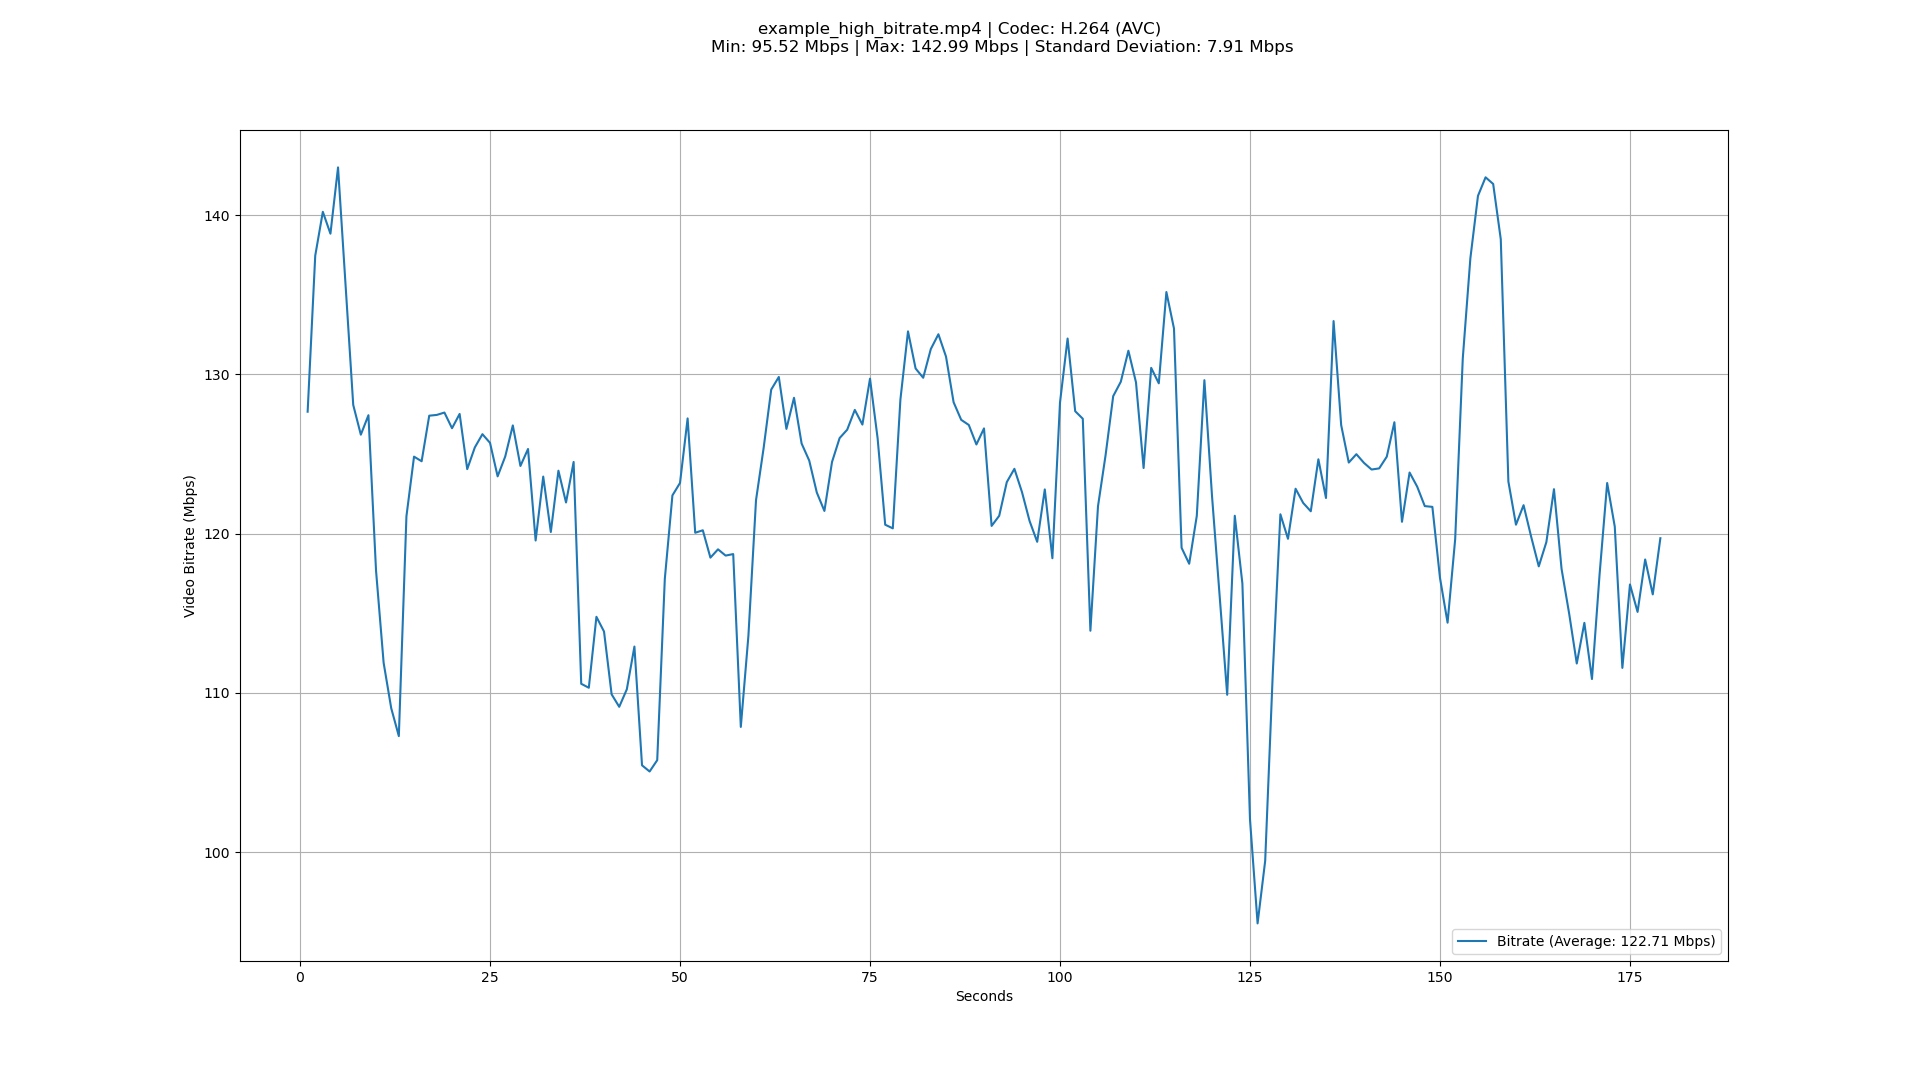
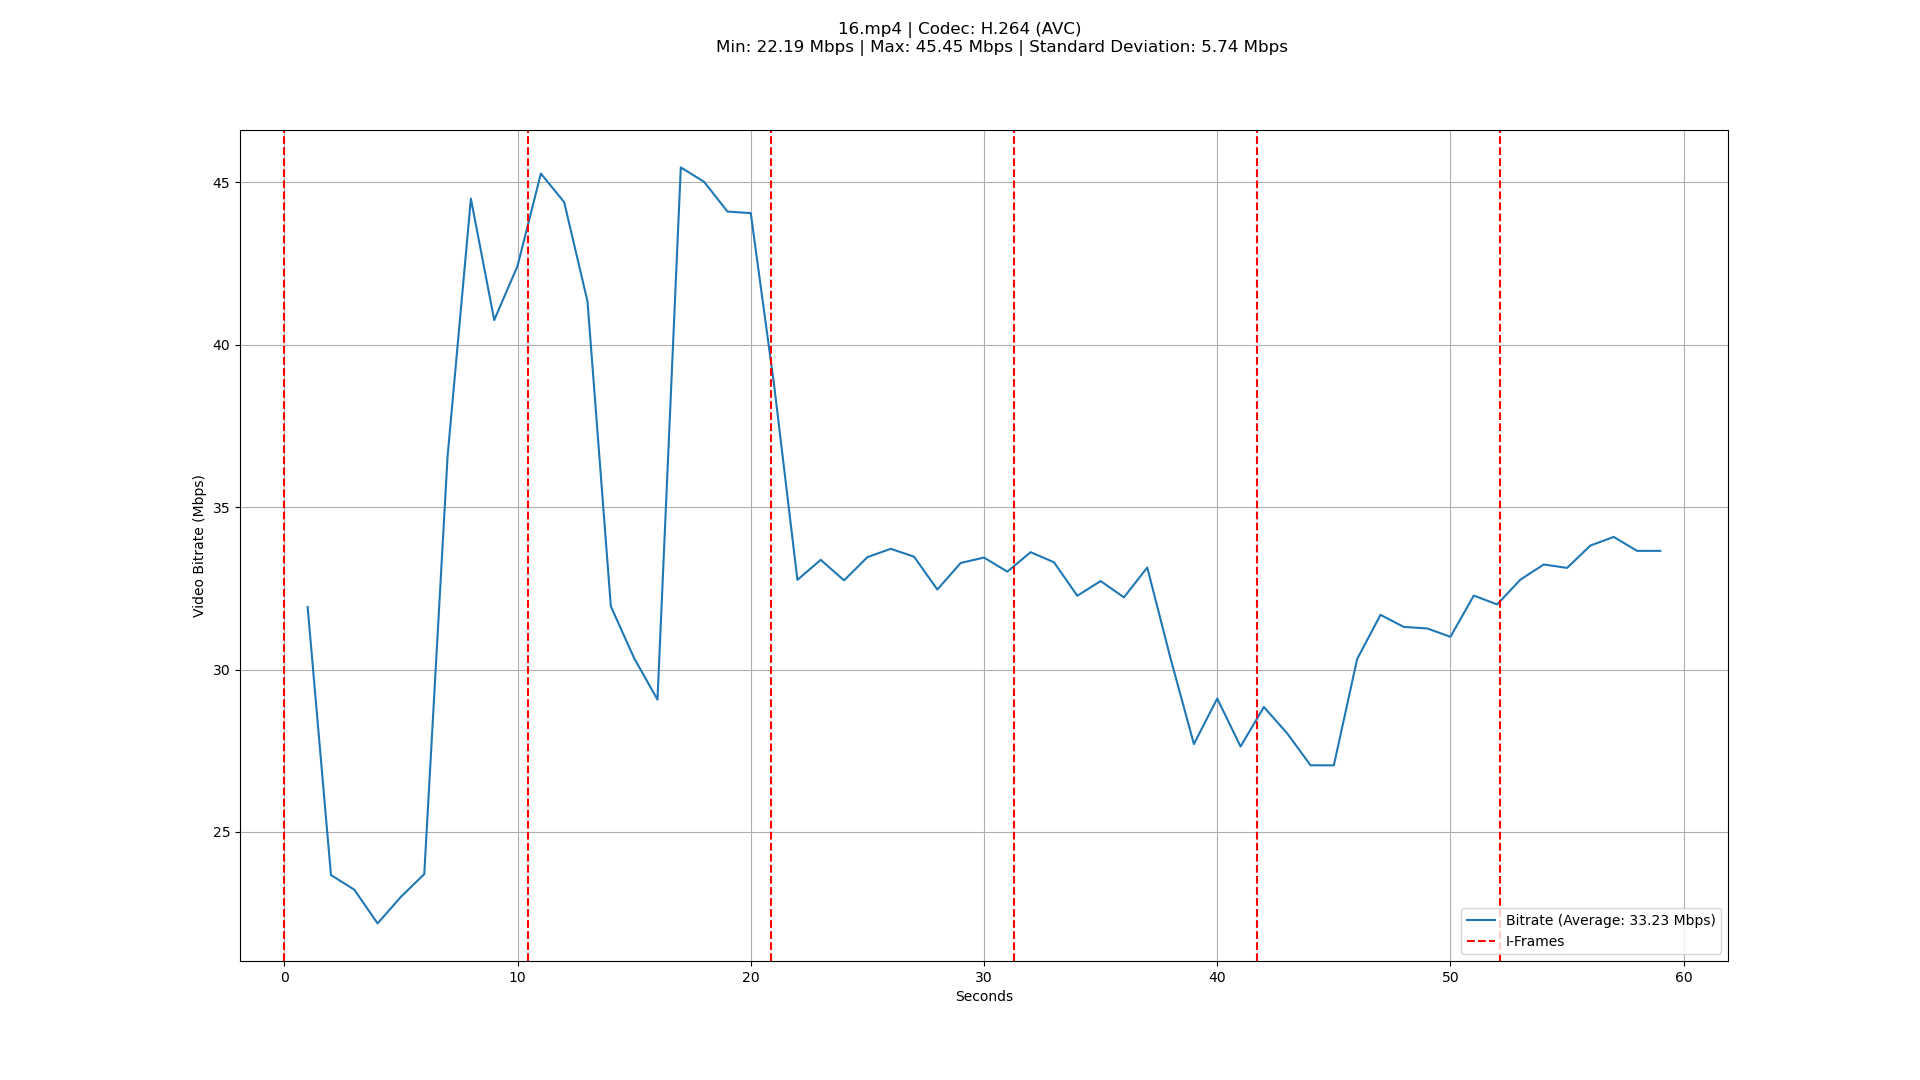
Also show I-Frames in the graph

diff --git a/_file_parser.py b/_file_parser.py
@@ -25,26 +25,28 @@ class FileParser:
 
     def __load_xml(self):
         """
-        Loads bitrate from frames in XML file
+        Loads bitrate and I-frames from XML file
         """
         bitrates = []
+        keyframes = []
         root = ET.parse(self.__filename).getroot()
         for frame in root.findall('frames/frame'):
             value = int(frame.get('pkt_size'))
             bitrates.append(value * 8)  # pkt_size is in byte
 
+            if int(frame.get('key_frame')) == 1:
+                keyframes.append(float(frame.get('pkt_pts_time')))
+
         streams = root.findall('streams/stream')
-        # stream = streams[0]
         encoder = streams[0].get('codec_name')
-        # stream = streams[0]
-        # encoder = stream.get('codec_name')
-        return bitrates, encoder
+        return bitrates, keyframes, encoder
 
     def __load_json(self):
         """
-        Loads bitrate from frames in JSON file
+        Loads bitrate and I-frames JSON file
         """
         bitrates = []
+        keyframes = []
         read_file = open(self.__filename, 'r')
         data = json.load(read_file)
 
@@ -52,10 +54,13 @@ class FileParser:
             value = int(frame['pkt_size'])
             bitrates.append(value * 8)  # pkt_size is in byte
 
+            if int(frame['key_frame']) == 1:
+                keyframes.append(float(frame['pkt_pts_time']))
+
         encoder = data['streams'][0]['codec_name']
         read_file.close()
 
-        return bitrates, encoder
+        return bitrates, keyframes, encoder
 
     def run(self, filename, format, fps):
         """
@@ -63,16 +68,17 @@ class FileParser:
         and sums it up every <fps> seconds to calculate the bitrate / second.
         """
         bitrates = []
+        keyframes = []
         encoder = str()
         self.__format = format
         self.__fps = fps
         self.__filename = filename
 
         if format == 'xml':
-            bitrates, encoder = self.__load_xml()
+            bitrates, keyframes, encoder = self.__load_xml()
         elif format == 'json':
-            bitrates, encoder = self.__load_json()
+            bitrates, keyframes, encoder = self.__load_json()
 
         seconds, bitrates_per_sec = self.__calculate_bitrate_per_sec(bitrates)
 
-        return tuple([seconds, bitrates_per_sec, encoder])
+        return tuple([seconds, bitrates_per_sec, keyframes, encoder])

diff --git a/_plotter.py b/_plotter.py
@@ -1,3 +1,4 @@
+import matplotlib.lines as mlines
 import matplotlib.pyplot as plt
 import numpy as np
 
@@ -5,7 +6,16 @@ from _utils import get_mbit_str, get_pretty_codec_name
 
 
 def plot_results(results, graph_title, graph_filename):
-    seconds, bitrates, encoder = results
+    seconds, bitrates, keyframes, encoder = results
+
+    number_of_keyframes = len(keyframes)
+    if number_of_keyframes > 75:
+        print(f'Warning:\n{str(number_of_keyframes)} I-Frames detected.\n'
+              'I-Frames are not shown on the graph for a video with more '
+              'than 75 I-Frames as this results in a cluttered graph.\n'
+              'Plotting the bitrate graph without I-frame markings...')
+        # drop keyframes
+        keyframes = []
 
     avg_bitrate = get_mbit_str(round(np.mean(bitrates), 2))
     min_bitrate = get_mbit_str(round(min(bitrates), 2))
@@ -13,14 +23,32 @@ def plot_results(results, graph_title, graph_filename):
     std_bitrate = get_mbit_str(round(np.std(bitrates), 2))
     encoder = get_pretty_codec_name(encoder)
 
+    # init the plot
     plt.figure(figsize=(19.20, 10.80))
     plt.suptitle(f'{graph_title} | Codec: {encoder}\n\
                 Min: {min_bitrate} | Max: {max_bitrate} | Standard Deviation: '
                  f'{std_bitrate}')
-    plt.plot(seconds, bitrates, label=f'Bitrate (Average: {avg_bitrate})')
     plt.xlabel('Seconds')
     plt.ylabel('Video Bitrate (Mbps)')
-    plt.legend(loc='lower right')
     plt.grid(True)
 
+    # actually plot the data
+    bitrate_line, = plt.plot(seconds, bitrates,
+                             label=f'Bitrate (Average: {avg_bitrate})')
+    # plot vertical lines for keyframes
+    for frame in keyframes:
+        plt.axvline(frame, color='r', linestyle='--', linewidth=1)
+
+    # create legend for I-frame-lines
+    label_text = 'I-Frames' if number_of_keyframes <= 75 else \
+                 'Too many I-Frames'
+    i_frame_legend = mlines.Line2D([], [], color='red', linestyle='--',
+                                   markersize=10, label=label_text)
+    # setup plot legend
+    plt.legend(handles=[bitrate_line, i_frame_legend],
+               labels=[bitrate_line.get_label(),
+                       i_frame_legend.get_label()],
+               loc='lower right')
+
+    # save the plot
     plt.savefig(f'{graph_filename}.png')
